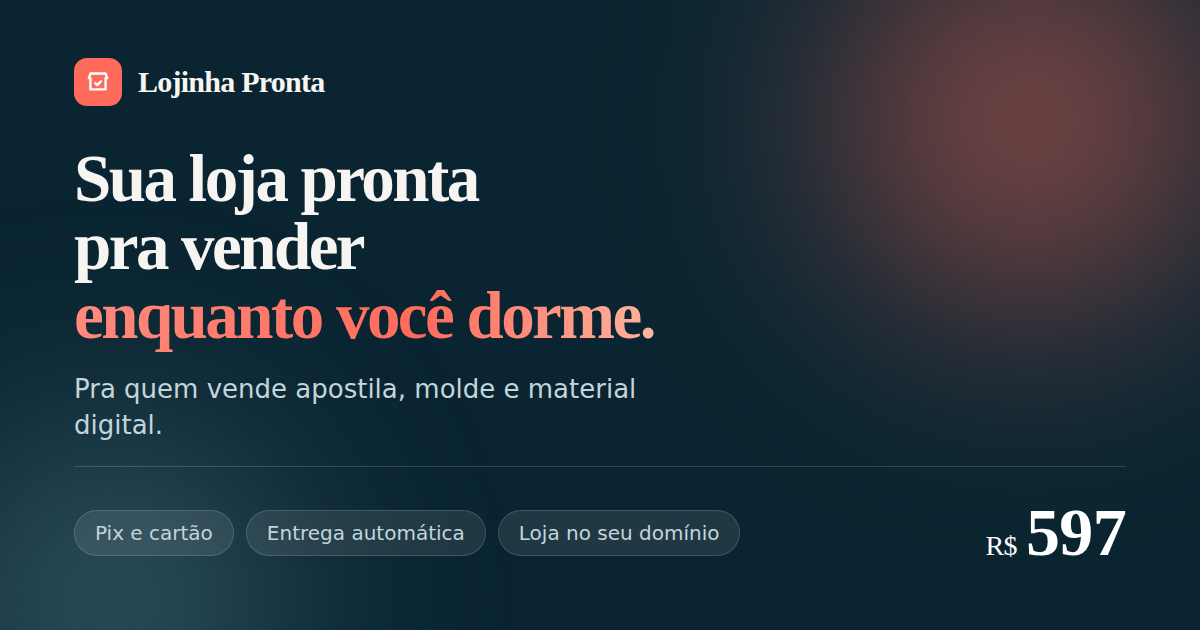
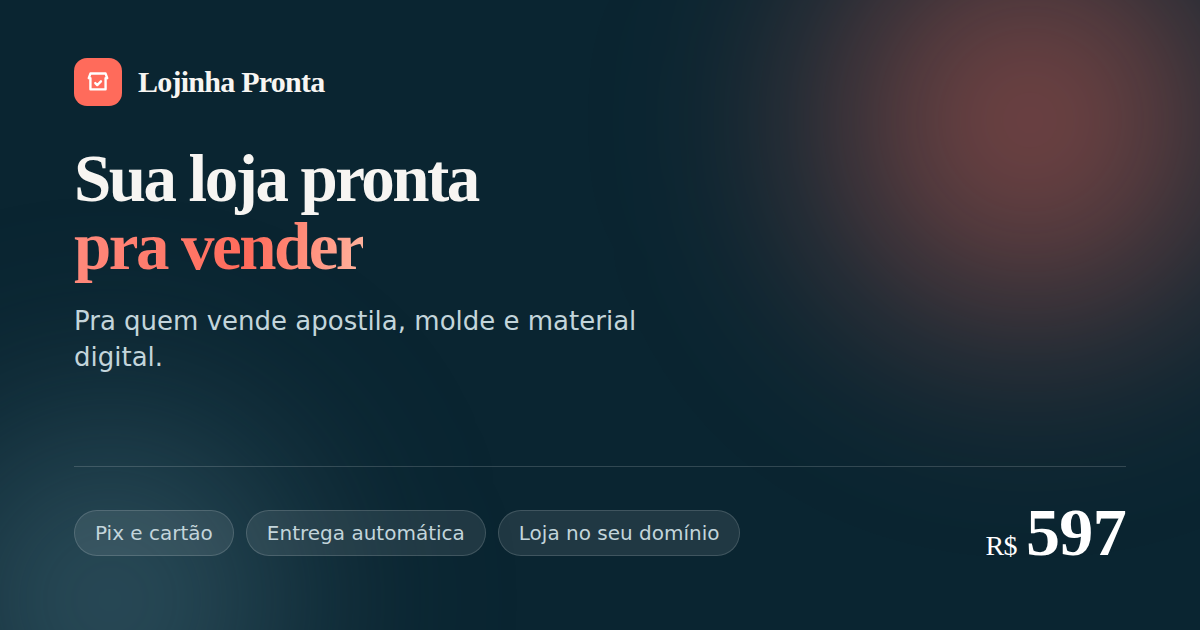
Encurtar a manchete do hero para "Sua loja pronta pra vender"
Sai o "enquanto você dorme". A frase aparecia em dois lugares — no hero e
na imagem de compartilhamento — e as duas foram trocadas, senão o preview
do link no WhatsApp diria uma coisa e a página, outra.

Com duas linhas em vez de três, "pra vender" passa a ser a linha com o
gradiente coral.

Encurtar o título trouxe à vista um problema que antes ficava abaixo da
dobra: os contadores eram flex com wrap e o terceiro caía sozinho numa
segunda linha, abrindo um buraco no meio do hero. Viraram grade
auto-fit, que acomoda os três em uma linha no desktop e dois por linha no
celular.

Claude-Session: https://claude.ai/code/session_01Ds77Wkf3XPAkD3KpAW1DNx

Changed region(s): [[0.0617, 0.4524, 0.555, 0.6333], [0.0617, 0.3619, 0.3083, 0.4524], [0.0617, 0.6635, 0.1542, 0.6937]]

diff --git a/src/styles/app.css b/src/styles/app.css
@@ -405,9 +405,11 @@
 }
 
 .hero__numeros {
-  display: flex;
-  flex-wrap: wrap;
-  gap: clamp(1.5rem, 1rem + 2.5vw, 3rem);
+  /* grade em vez de flex: com flex-wrap o terceiro número caía sozinho
+     numa segunda linha e abria um buraco no meio do hero */
+  display: grid;
+  grid-template-columns: repeat(auto-fit, minmax(min(100%, 140px), 1fr));
+  gap: clamp(1.25rem, 1rem + 1.5vw, 2rem);
   margin-top: 2rem;
   padding-top: 1.5rem;
   border-top: 1px solid rgba(255, 255, 255, 0.13);
@@ -432,7 +434,6 @@
 .hero__numero span {
   display: block;
   margin-top: 0.25rem;
-  max-width: 20ch;
   font-size: var(--t-sm);
   line-height: 1.4;
   color: var(--azul-400);

diff --git a/src/data/site.js b/src/data/site.js
@@ -31,7 +31,7 @@ export const preco = {
 
 export const hero = {
   eyebrow: 'Loja virtual pra quem vende material digital',
-  titulo: ['Sua loja pronta', 'pra vender enquanto', 'você dorme.'],
+  titulo: ['Sua loja pronta', 'pra vender'],
   subtitulo:
     'Pra professora e criadora que vende apostila, molde, matriz de bordado, planilha ou material de escola bíblica. O cliente compra por Pix ou cartão e recebe o arquivo na hora, sozinho. Você não manda nada no WhatsApp.',
   ctaPrimario: 'Quero minha loja',
